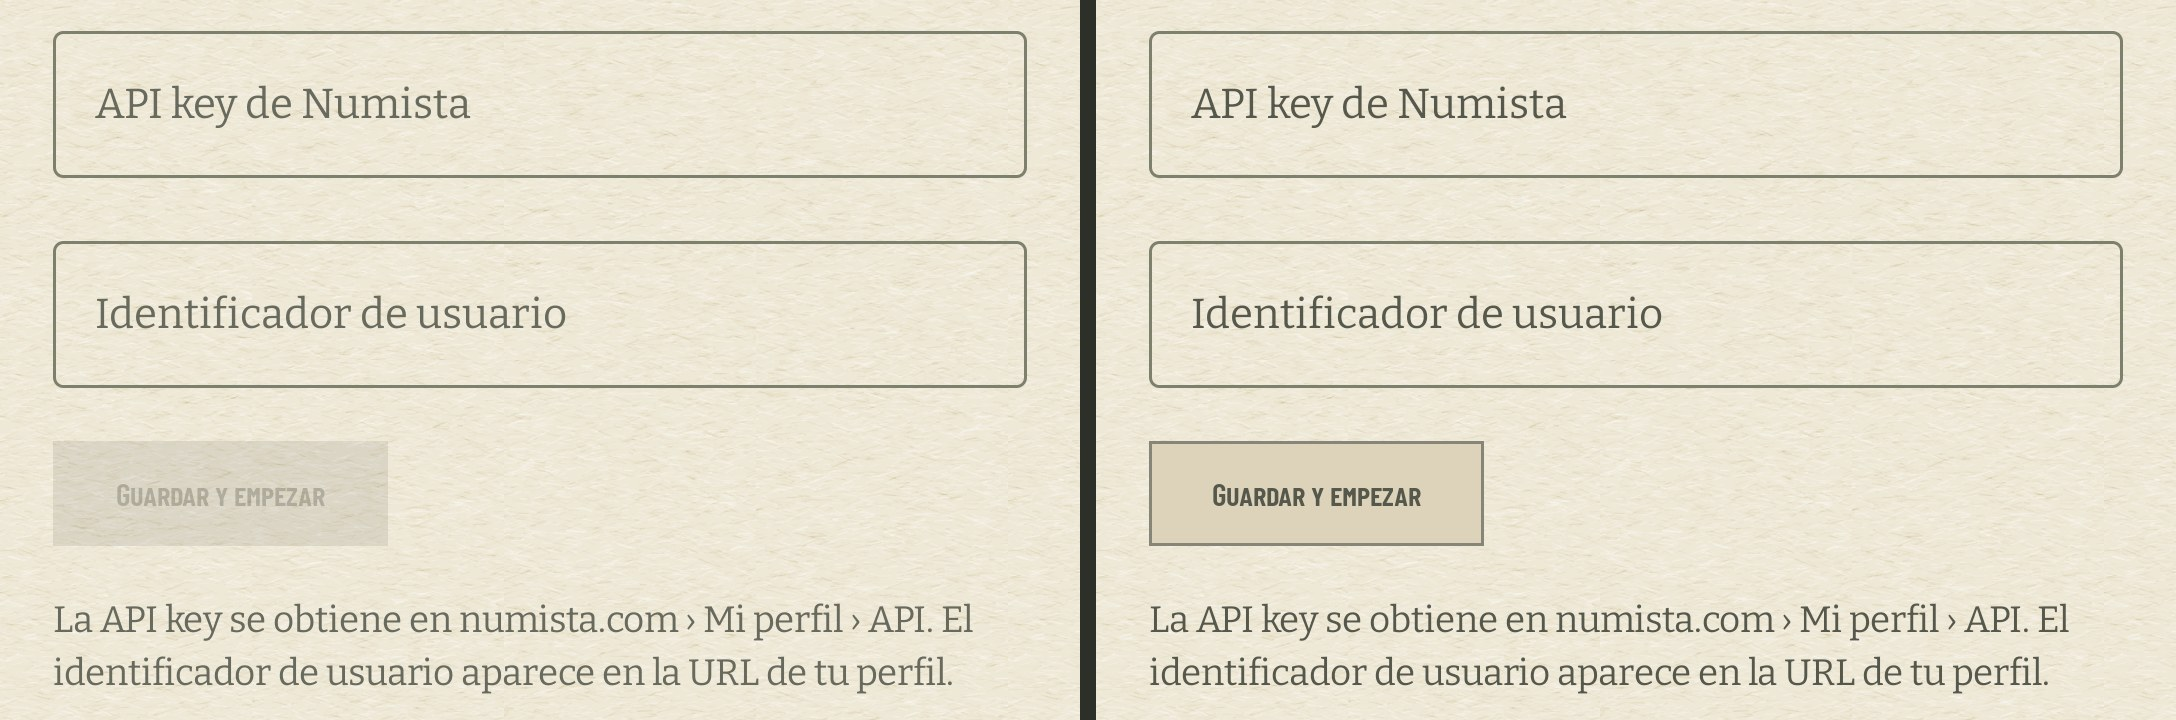
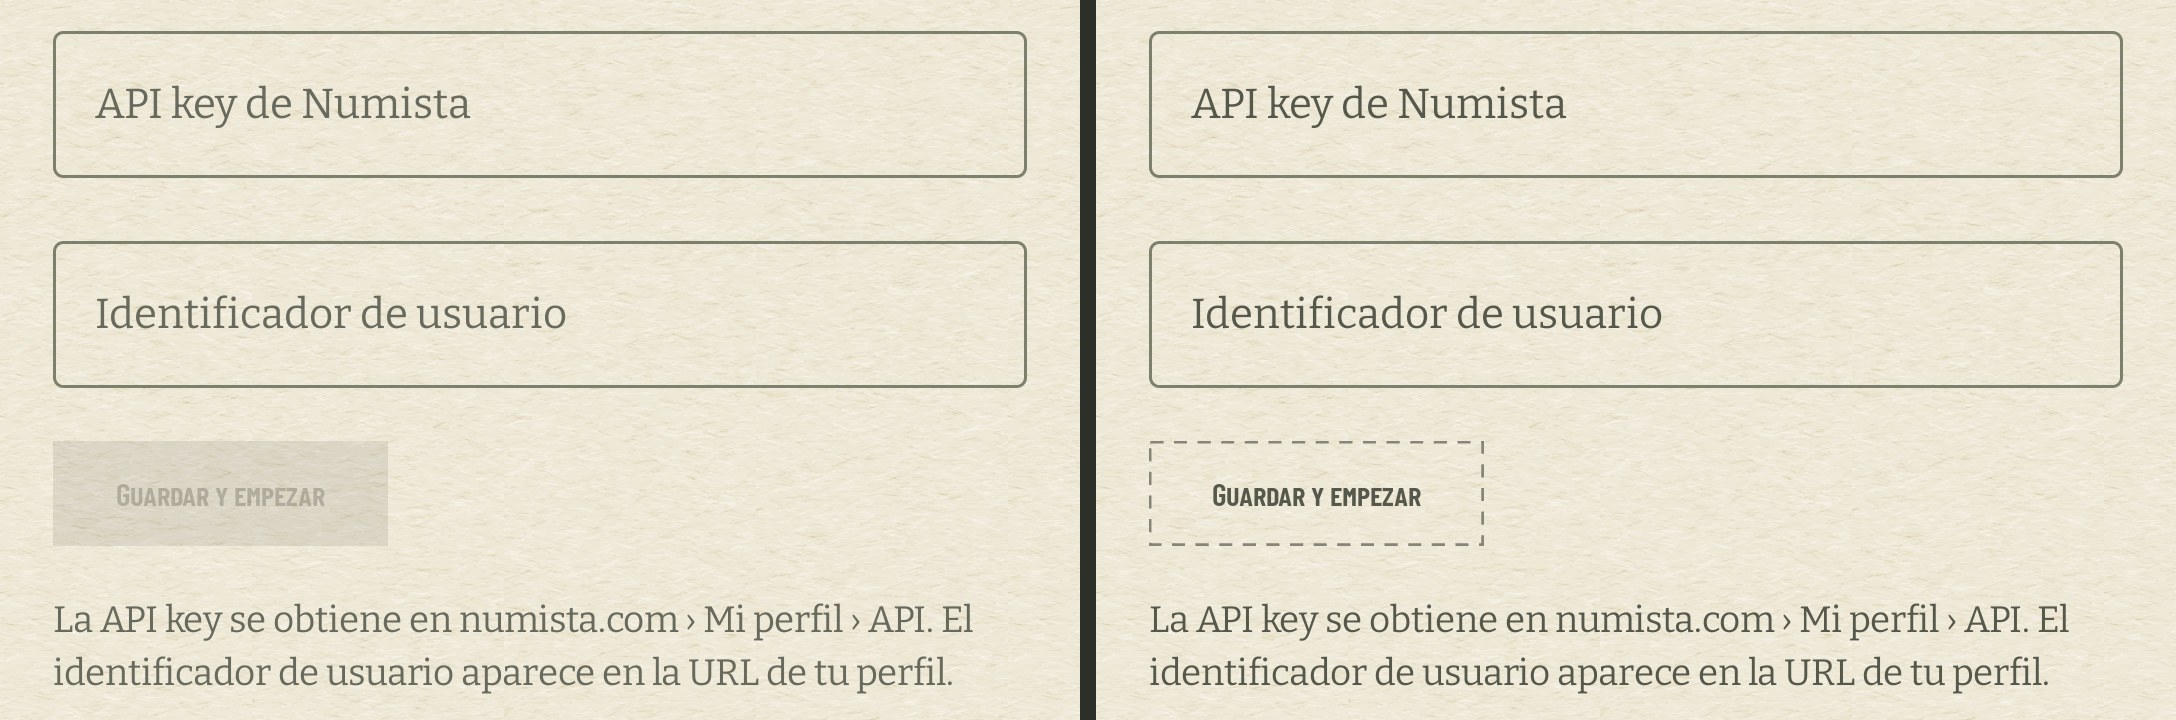
fix: el botón desactivado lleva regla discontinua (#633)
PrimaryAction y CardAction desactivados van sin relleno, con la etiqueta en muted y la regla discontinua de FieldCard: una acción desactivada es una acción ausente. La diana de 48 dp se sostiene fuera del botón para que la regla caiga sobre su forma visible. DisabledActionTest cuenta los tramos de la regla sobre paperDeep.

Changed region(s): [[0.5312, 0.6111, 0.6875, 0.7639]]

diff --git a/app/src/androidTest/kotlin/com/jenarvaezg/coindex/ui/components/DisabledActionTest.kt b/app/src/androidTest/kotlin/com/jenarvaezg/coindex/ui/components/DisabledActionTest.kt
@@ -1,6 +1,11 @@
 package com.jenarvaezg.coindex.ui.components
 
+import androidx.compose.foundation.background
+import androidx.compose.foundation.layout.Box
 import androidx.compose.foundation.layout.Column
+import androidx.compose.foundation.layout.padding
+import androidx.compose.runtime.Composable
+import androidx.compose.ui.Modifier
 import androidx.compose.ui.graphics.Color
 import androidx.compose.ui.graphics.luminance
 import androidx.compose.ui.graphics.toArgb
@@ -8,11 +13,14 @@ import androidx.compose.ui.graphics.toPixelMap
 import androidx.compose.ui.test.captureToImage
 import androidx.compose.ui.test.junit4.v2.createComposeRule
 import androidx.compose.ui.test.onNodeWithText
+import androidx.compose.ui.unit.dp
 import androidx.test.ext.junit.runners.AndroidJUnit4
 import com.jenarvaezg.coindex.ui.CANCEL_ACTION
 import com.jenarvaezg.coindex.ui.ONBOARDING_SAVE_ACTION
 import com.jenarvaezg.coindex.ui.boxDoorLabel
 import com.jenarvaezg.coindex.ui.theme.CoindexTheme
+import com.jenarvaezg.coindex.ui.theme.Paper
+import org.junit.Assert.assertEquals
 import org.junit.Assert.assertTrue
 import org.junit.Rule
 import org.junit.Test
@@ -21,8 +29,8 @@ import kotlin.math.max
 import kotlin.math.min
 
 /**
- * A button that can't be pressed yet keeps a label that reads at 4.5:1 (#633). The fill and the
- * rule say it is off, as the export panel's tick box does (#512).
+ * A disabled button is ruled in dashes, the mark of absence, and its label reads at 4.5:1 (#633).
+ * Both are measured on paperDeep, the darkest paper a button sits on (the mode band).
  */
 @RunWith(AndroidJUnit4::class)
 class DisabledActionTest {
@@ -32,11 +40,7 @@ class DisabledActionTest {
     @Test
     // D8 forbids spaces in method names below DEX 040, so instrumented tests cannot use backticks.
     fun aDisabledPrimaryActionKeepsItsLabelLegible() {
-        compose.setContent {
-            CoindexTheme {
-                PrimaryAction(text = ONBOARDING_SAVE_ACTION, onClick = {}, enabled = false)
-            }
-        }
+        onDeepPaper { PrimaryAction(text = ONBOARDING_SAVE_ACTION, onClick = {}, enabled = false) }
 
         val ratio = labelContrast(ONBOARDING_SAVE_ACTION)
 
@@ -45,9 +49,7 @@ class DisabledActionTest {
 
     @Test
     fun aDisabledCardActionKeepsItsLabelLegible() {
-        compose.setContent {
-            CoindexTheme { CardAction(text = EMPTY_DOOR, onClick = {}, enabled = false) }
-        }
+        onDeepPaper { CardAction(text = EMPTY_DOOR, onClick = {}, enabled = false) }
 
         val ratio = labelContrast(EMPTY_DOOR)
 
@@ -55,34 +57,56 @@ class DisabledActionTest {
     }
 
     @Test
-    fun aDisabledCardActionIsToldByItsFill() {
-        compose.setContent {
-            CoindexTheme {
-                Column {
-                    CardAction(text = CANCEL_ACTION, onClick = {})
-                    CardAction(text = EMPTY_DOOR, onClick = {}, enabled = false)
-                }
+    fun aDisabledActionIsRuledInDashesWhereAnEnabledOneIsSolid() {
+        onDeepPaper {
+            Column {
+                CardAction(text = CANCEL_ACTION, onClick = {})
+                CardAction(text = EMPTY_DOOR, onClick = {}, enabled = false)
+                PrimaryAction(text = ONBOARDING_SAVE_ACTION, onClick = {}, enabled = false)
             }
         }
 
-        val ratio = contrast(fillBehind(CANCEL_ACTION), fillBehind(EMPTY_DOOR))
+        val enabled = strokesAlongTopEdge(CANCEL_ACTION)
+        val door = strokesAlongTopEdge(EMPTY_DOOR)
+        val primary = strokesAlongTopEdge(ONBOARDING_SAVE_ACTION)
 
-        // paper against paperDeep is 1.22; the same paper on both is 1.
-        assertTrue("los dos rellenos midieron $ratio", ratio >= 1.1)
+        assertEquals("«Cancelar» activo", 1, enabled)
+        assertTrue("CardAction desactivado: $door trazos", door >= 3)
+        assertTrue("PrimaryAction desactivado: $primary trazos", primary >= 3)
+    }
+
+    private fun onDeepPaper(content: @Composable () -> Unit) {
+        compose.setContent {
+            CoindexTheme {
+                Box(Modifier.background(Paper.paperDeep).padding(8.dp)) { content() }
+            }
+        }
     }
 
     private fun labelContrast(text: String): Double {
-        val pixels = pixelsOf(text)
+        val pixels = labelPixels(text)
         val darkest = pixels.minBy { it.luminance() }
         return contrast(darkest, mostFrequent(pixels))
     }
 
-    private fun fillBehind(text: String): Color = mostFrequent(pixelsOf(text))
-
-    /** The label's own node, whose background is the button's fill rather than the page. */
-    private fun pixelsOf(text: String): List<Color> {
+    /** The label's own node: the button's fill, or the paper through it, is what is behind it. */
+    private fun labelPixels(text: String): List<Color> {
         val map = compose.onNodeWithText(text, useUnmergedTree = true).captureToImage().toPixelMap()
         return (0 until map.width).flatMap { x -> (0 until map.height).map { y -> map[x, y] } }
+    }
+
+    /**
+     * Runs of rule along the button's topmost ruled row: one for a solid rule, one per dash for a
+     * dashed one. The row is found rather than fixed, since Material pads its own target.
+     */
+    private fun strokesAlongTopEdge(text: String): Int {
+        val map = compose.onNodeWithText(text).captureToImage().toPixelMap()
+        val threshold = (Paper.paperDeep.luminance() + Paper.hairline.luminance()) / 2
+        fun ruled(x: Int, y: Int) = map[x, y].luminance() < threshold
+        val row = (0 until map.height).first { y ->
+            (0 until map.width).count { x -> ruled(x, y) } * 3 >= map.width
+        }
+        return (0 until map.width).count { x -> ruled(x, row) && (x == 0 || !ruled(x - 1, row)) }
     }
 
     private fun mostFrequent(pixels: List<Color>): Color =

diff --git a/app/src/main/kotlin/com/jenarvaezg/coindex/ui/components/FieldGuide.kt b/app/src/main/kotlin/com/jenarvaezg/coindex/ui/components/FieldGuide.kt
@@ -6,6 +6,7 @@ import androidx.compose.foundation.background
 import androidx.compose.foundation.border
 import androidx.compose.foundation.clickable
 import androidx.compose.foundation.layout.Arrangement
+import androidx.compose.foundation.layout.Box
 import androidx.compose.foundation.layout.Column
 import androidx.compose.foundation.layout.ColumnScope
 import androidx.compose.foundation.layout.PaddingValues
@@ -21,10 +22,13 @@ import androidx.compose.foundation.text.appendInlineContent
 import androidx.compose.material3.Button
 import androidx.compose.material3.ButtonDefaults
 import androidx.compose.material3.HorizontalDivider
+import androidx.compose.material3.LocalMinimumInteractiveComponentSize
 import androidx.compose.material3.MaterialTheme
 import androidx.compose.material3.OutlinedButton
 import androidx.compose.material3.Text
+import androidx.compose.material3.minimumInteractiveComponentSize
 import androidx.compose.runtime.Composable
+import androidx.compose.runtime.CompositionLocalProvider
 import androidx.compose.ui.Alignment
 import androidx.compose.ui.Modifier
 import androidx.compose.ui.draw.drawBehind
@@ -95,18 +99,19 @@ fun PrimaryAction(
     modifier: Modifier = Modifier,
     enabled: Boolean = true,
 ) {
-    Button(
-        onClick = onClick,
-        enabled = enabled,
-        shape = RectangleShape,
-        colors = ButtonDefaults.buttonColors(
-            disabledContainerColor = DisabledAction.fill,
-            disabledContentColor = DisabledAction.label,
-        ),
-        border = if (enabled) null else HAIRLINE_RULE,
-        modifier = modifier,
-    ) {
-        Text(text, style = MaterialTheme.typography.labelLarge)
+    DashedWhenDisabled(enabled, modifier) { buttonModifier ->
+        Button(
+            onClick = onClick,
+            enabled = enabled,
+            shape = RectangleShape,
+            colors = ButtonDefaults.buttonColors(
+                disabledContainerColor = Color.Transparent,
+                disabledContentColor = Paper.muted,
+            ),
+            modifier = buttonModifier,
+        ) {
+            Text(text, style = MaterialTheme.typography.labelLarge)
+        }
     }
 }
 
@@ -123,36 +128,51 @@ fun CardAction(
     enabled: Boolean = true,
     icon: (@Composable () -> Unit)? = null,
 ) {
-    OutlinedButton(
-        onClick = onClick,
-        enabled = enabled,
-        shape = RectangleShape,
-        border = HAIRLINE_RULE,
-        colors = ButtonDefaults.outlinedButtonColors(
-            contentColor = Paper.ink,
-            disabledContainerColor = DisabledAction.fill,
-            disabledContentColor = DisabledAction.label,
-        ),
-        contentPadding = PaddingValues(horizontal = 14.dp, vertical = 6.dp),
-        modifier = modifier,
-    ) {
-        icon?.let {
-            it()
-            Spacer(modifier = Modifier.size(8.dp))
+    DashedWhenDisabled(enabled, modifier) { buttonModifier ->
+        OutlinedButton(
+            onClick = onClick,
+            enabled = enabled,
+            shape = RectangleShape,
+            border = if (enabled) BorderStroke(1.dp, Paper.hairline) else null,
+            colors = ButtonDefaults.outlinedButtonColors(
+                contentColor = Paper.ink,
+                disabledContentColor = Paper.muted,
+            ),
+            contentPadding = PaddingValues(horizontal = 14.dp, vertical = 6.dp),
+            modifier = buttonModifier,
+        ) {
+            icon?.let {
+                it()
+                Spacer(modifier = Modifier.size(8.dp))
+            }
+            Text(text, style = MaterialTheme.typography.labelLarge)
         }
-        Text(text, style = MaterialTheme.typography.labelLarge)
     }
 }
 
-private val HAIRLINE_RULE = BorderStroke(1.dp, Paper.hairline)
-
 /**
- * A button that can't be pressed yet: the fill and the hairline rule say so, as the export panel's
- * tick box does (#512), and the label keeps 4.5:1 instead of Material's faded 2:1 (#633).
+ * A disabled action is an absent one, so it takes the dashed rule that marks absence on a
+ * [FieldCard] (#633). The 48 dp target is held outside the button, so the rule lands on its shape.
  */
-private object DisabledAction {
-    val fill = Paper.paperDeep
-    val label = Paper.muted
+@Composable
+private fun DashedWhenDisabled(
+    enabled: Boolean,
+    modifier: Modifier,
+    button: @Composable (Modifier) -> Unit,
+) {
+    if (enabled) {
+        button(modifier)
+    } else {
+        Box(
+            modifier = modifier.minimumInteractiveComponentSize(),
+            contentAlignment = Alignment.Center,
+            propagateMinConstraints = true,
+        ) {
+            CompositionLocalProvider(LocalMinimumInteractiveComponentSize provides Dp.Unspecified) {
+                button(Modifier.dashedBorder(Paper.hairline, 1.dp))
+            }
+        }
+    }
 }
 
 /**

diff --git a/docs/ux/implementacion-633/README.md b/docs/ux/implementacion-633/README.md
@@ -1,8 +1,9 @@
 # El gris del texto se lee sobre todos los fondos (#633)
 
-`Paper.muted` pasa de `#686A5D` a `#56584C`, los botones desactivados dejan el 38 % de Material por
-el relleno `paperDeep` con regla `hairline` y la etiqueta en `muted`, y las magnitudes de la
-escalera de «Las cifras» dejan `Paper.line` por `muted`.
+`Paper.muted` pasa de `#686A5D` a `#56584C` y las magnitudes de la escalera de «Las cifras» dejan
+`Paper.line` por `muted`. Los botones desactivados dejan el 38 % de Material: van sin relleno, con
+la etiqueta en `muted` y una regla discontinua, la marca de la ausencia en `FieldCard`. Una acción
+desactivada es una acción ausente. Jose eligió la regla discontinua en la revisión del PR.
 
 ## Cómo se midió
 
@@ -10,7 +11,8 @@ AVD `coindex-633` (Pixel 7, 1080 × 2400 a 420 dpi, google_apis, render por soft
 desde antes de abrir la app por primera vez: cero consultas. La colección es la del padre,
 restaurada con `scripts/avd-db.sh restore`; las fotos no están porque el AVD nunca tuvo red. El APK
 de antes es `main` (6e3eb81) y el de después, esta rama instalada encima con `adb install -r`, así
-que los datos y la navegación son los mismos.
+que los datos y la navegación son los mismos. Los botones desactivados se recapturaron con la regla
+discontinua en la misma sesión y sobre los mismos datos.
 
 Cada contraste sale del PNG nativo a 1080 de `adb exec-out screencap -p`, nunca de una copia
 reescalada. En una caja ceñida al texto, el color del texto es la mediana de los píxeles más cerca
@@ -27,18 +29,26 @@ recortes de abajo los dejan fuera de cuadro.
 | --- | --- | ---: | ---: |
 | año bajo cada moneda («1924») | Monedas en «Hacer una colección», sobre el velo del modo | 4,06 | 5,34 |
 | «Nombrar la colección · 0», desactivado | listón de Monedas, sin ninguna elegida | 1,47 | 4,87 |
-| «Crear», desactivado | diálogo de la colección, sin nombre | 1,60 | 4,87 |
+| «Crear», desactivado | diálogo de la colección, sin nombre | 1,60 | 6,55 |
 | «0/40 · tiene que caber en una tarjeta» | el mismo diálogo | 4,98 | 6,55 |
 | «Alemania · 1937 · N# 3416» | ficha de la moneda | 4,51 | 5,93 |
 | «Ficha traída hace 5 días» | ficha de la moneda | 4,51 | 5,93 |
 | magnitud de la escalera («2,00 kg») | «Las cifras» | 3,32 | 5,93 |
 | referente de la escalera («ladrillo») | «Las cifras» | 4,51 | 5,93 |
 | «Lo que escribes arriba no llega hasta aquí.» | puerta de «Lo que busco» mientras se busca | 3,71 | 4,87 |
-| «Hacer una colección con estas 0», desactivado | Monedas con una búsqueda sin resultados | 1,63 | 4,87 |
-| «Guardar y empezar», desactivado | alta, con los campos vacíos | 1,55 | 4,87 |
+| «Hacer una colección con estas 0», desactivado | Monedas con una búsqueda sin resultados | 1,63 | 5,93 |
+| «Guardar y empezar», desactivado | alta, con los campos vacíos | 1,55 | 5,93 |
 | «Sin colección», interruptor desactivado | «Cómo se exporta» | 4,98 | 6,55 |
 | «Progreso» | cuaderno impreso, PDF rasterizado a 300 dpi | 4,51 | 5,93 |
 | «1876», pie de la moneda | cuaderno impreso | 4,01 | 5,08 |
+
+Sin relleno, la etiqueta desactivada se mide contra el fondo que tenga debajo: el listón
+(`paperDeep`, 4,87, el peor caso), la tarjeta del diálogo (6,55) o el papel (5,93).
+
+Que la regla sea discontinua se mide igual, sobre el PNG: en la fila superior del borde de cada
+botón se cuentan los tramos de regla. En el listón, «Nombrar la colección · 0» da 17 tramos y
+«Cancelar», 1, los dos en la misma fila de píxeles (y = 2064). La regla cae sobre la forma visible y
+no sobre la diana de 48 dp. En el diálogo, «Crear» da 8 y «Cancelar», 1.
 
 El pie impreso mide menos que la paleta (4,51 y 5,93) porque su trazo fino apenas tiene píxeles
 de color pleno a 300 dpi.

diff --git a/docs/adr/0026-the-shape-of-coindex-an-album-sheet.md b/docs/adr/0026-the-shape-of-coindex-an-album-sheet.md
@@ -227,6 +227,8 @@ is not prose; `"Colecciones · $collections"` is.
 
 **Amended by [#633](https://github.com/jenarvaezg/coindex/issues/633) (2026-10-11).** `Paper.muted`
 is `#56584C`, and its 4.5:1 floor is held on `paperDeep` and the mode wash as well as the paper.
+A disabled button has no fill, a `muted` label and a dashed rule, the mark of absence on a
+`FieldCard`: a disabled action is an absent one.
 
 ### 7. The name of a coin is two strings, and it is derived, not curated
 
